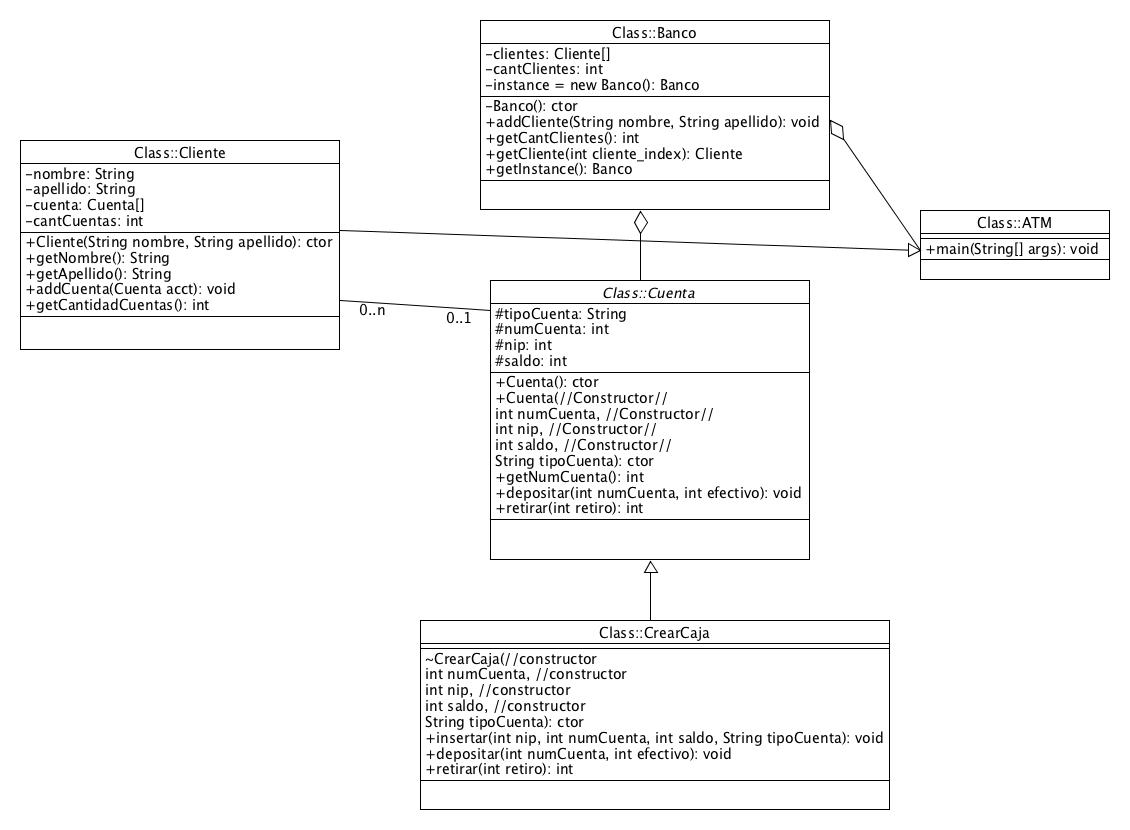
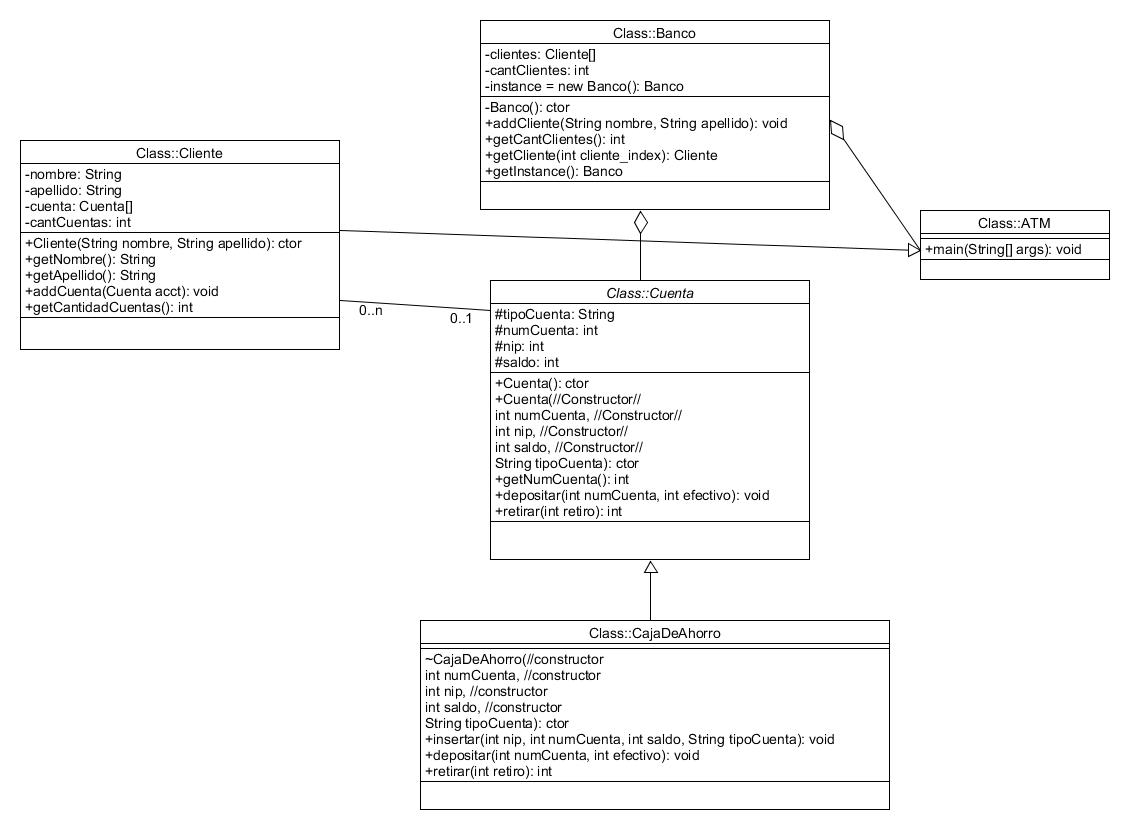
Rename clase y ajuste diagramas

diff --git a/src/Class/CajaDeAhorro.java b/src/Class/CajaDeAhorro.java
@@ -1,7 +1,7 @@
 package Class;
 
-public class CrearCaja extends Cuenta{
-	    CrearCaja(int numCuenta,int nip,int saldo,String tipoCuenta){ //constructor 
+public class CajaDeAhorro extends Cuenta{
+	    CajaDeAhorro(int numCuenta,int nip,int saldo,String tipoCuenta){ //constructor 
 	            this.numCuenta = numCuenta;
 	            this.saldo = saldo;
 	            this.nip = nip;
